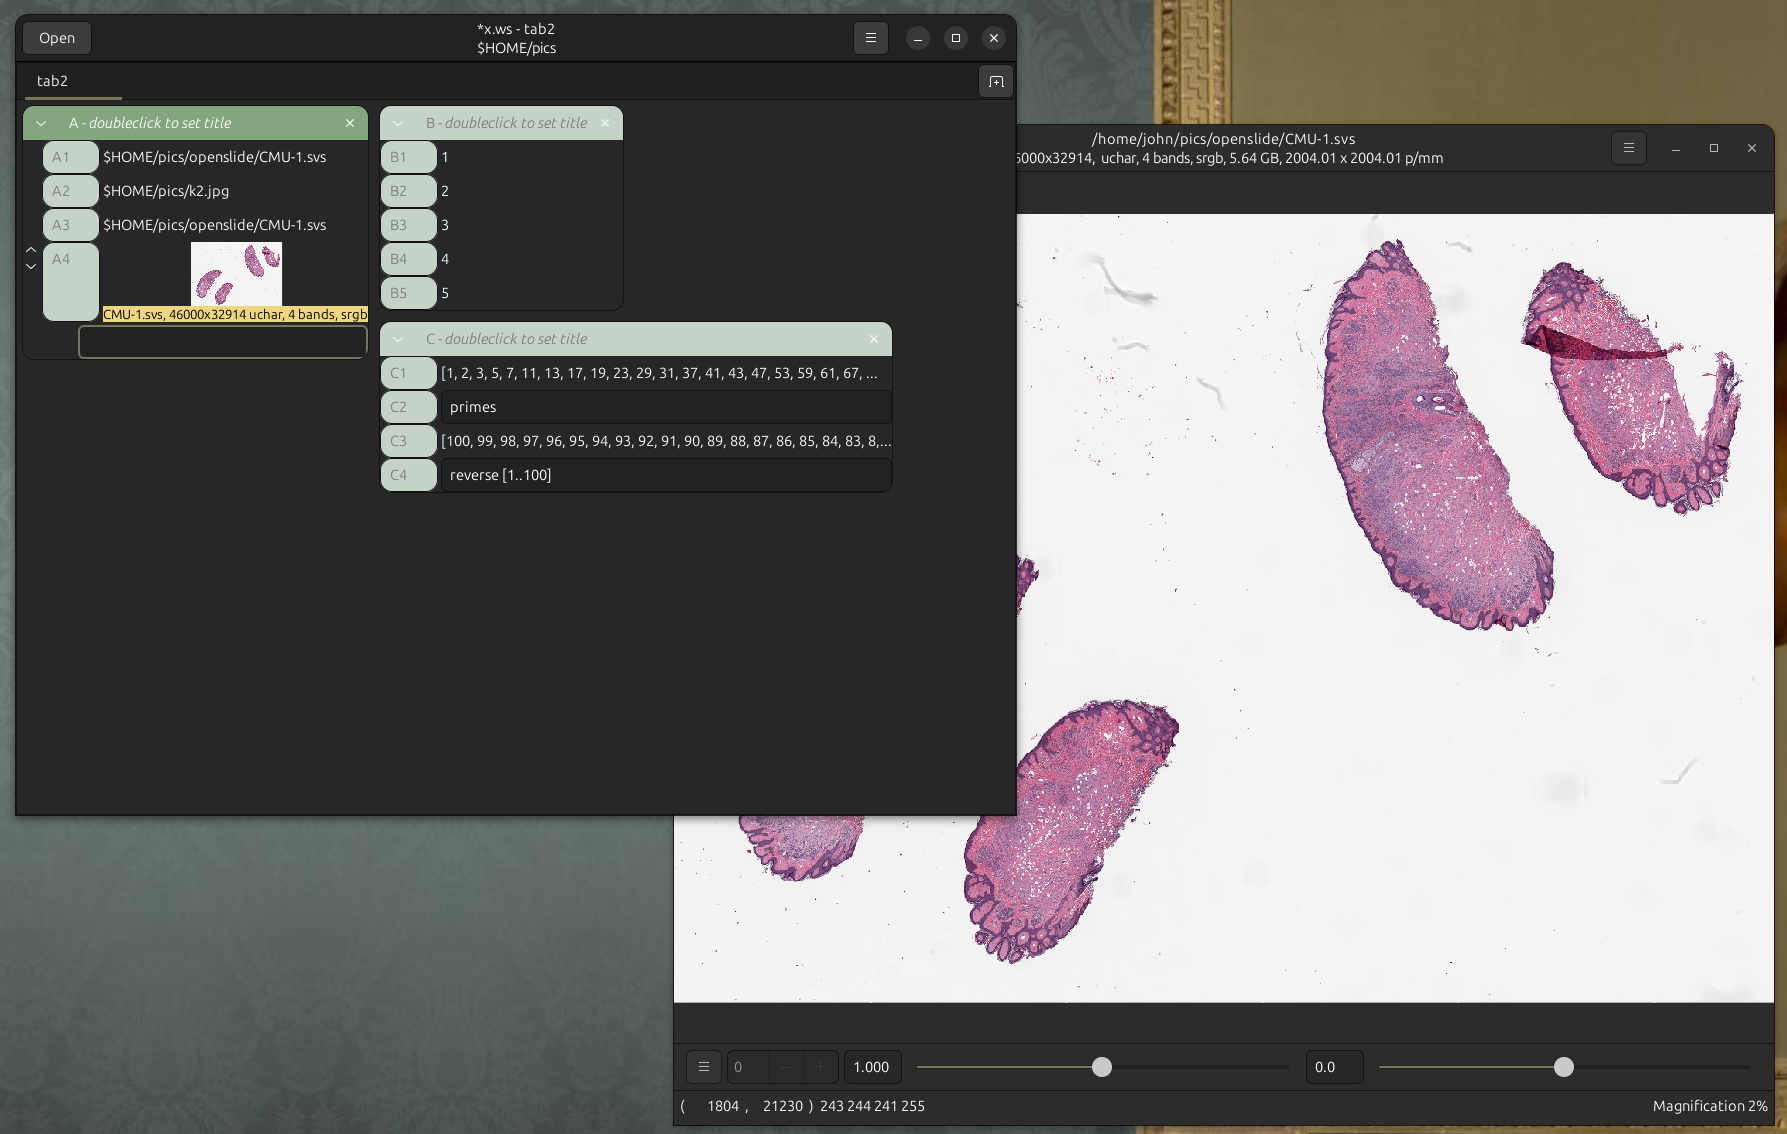
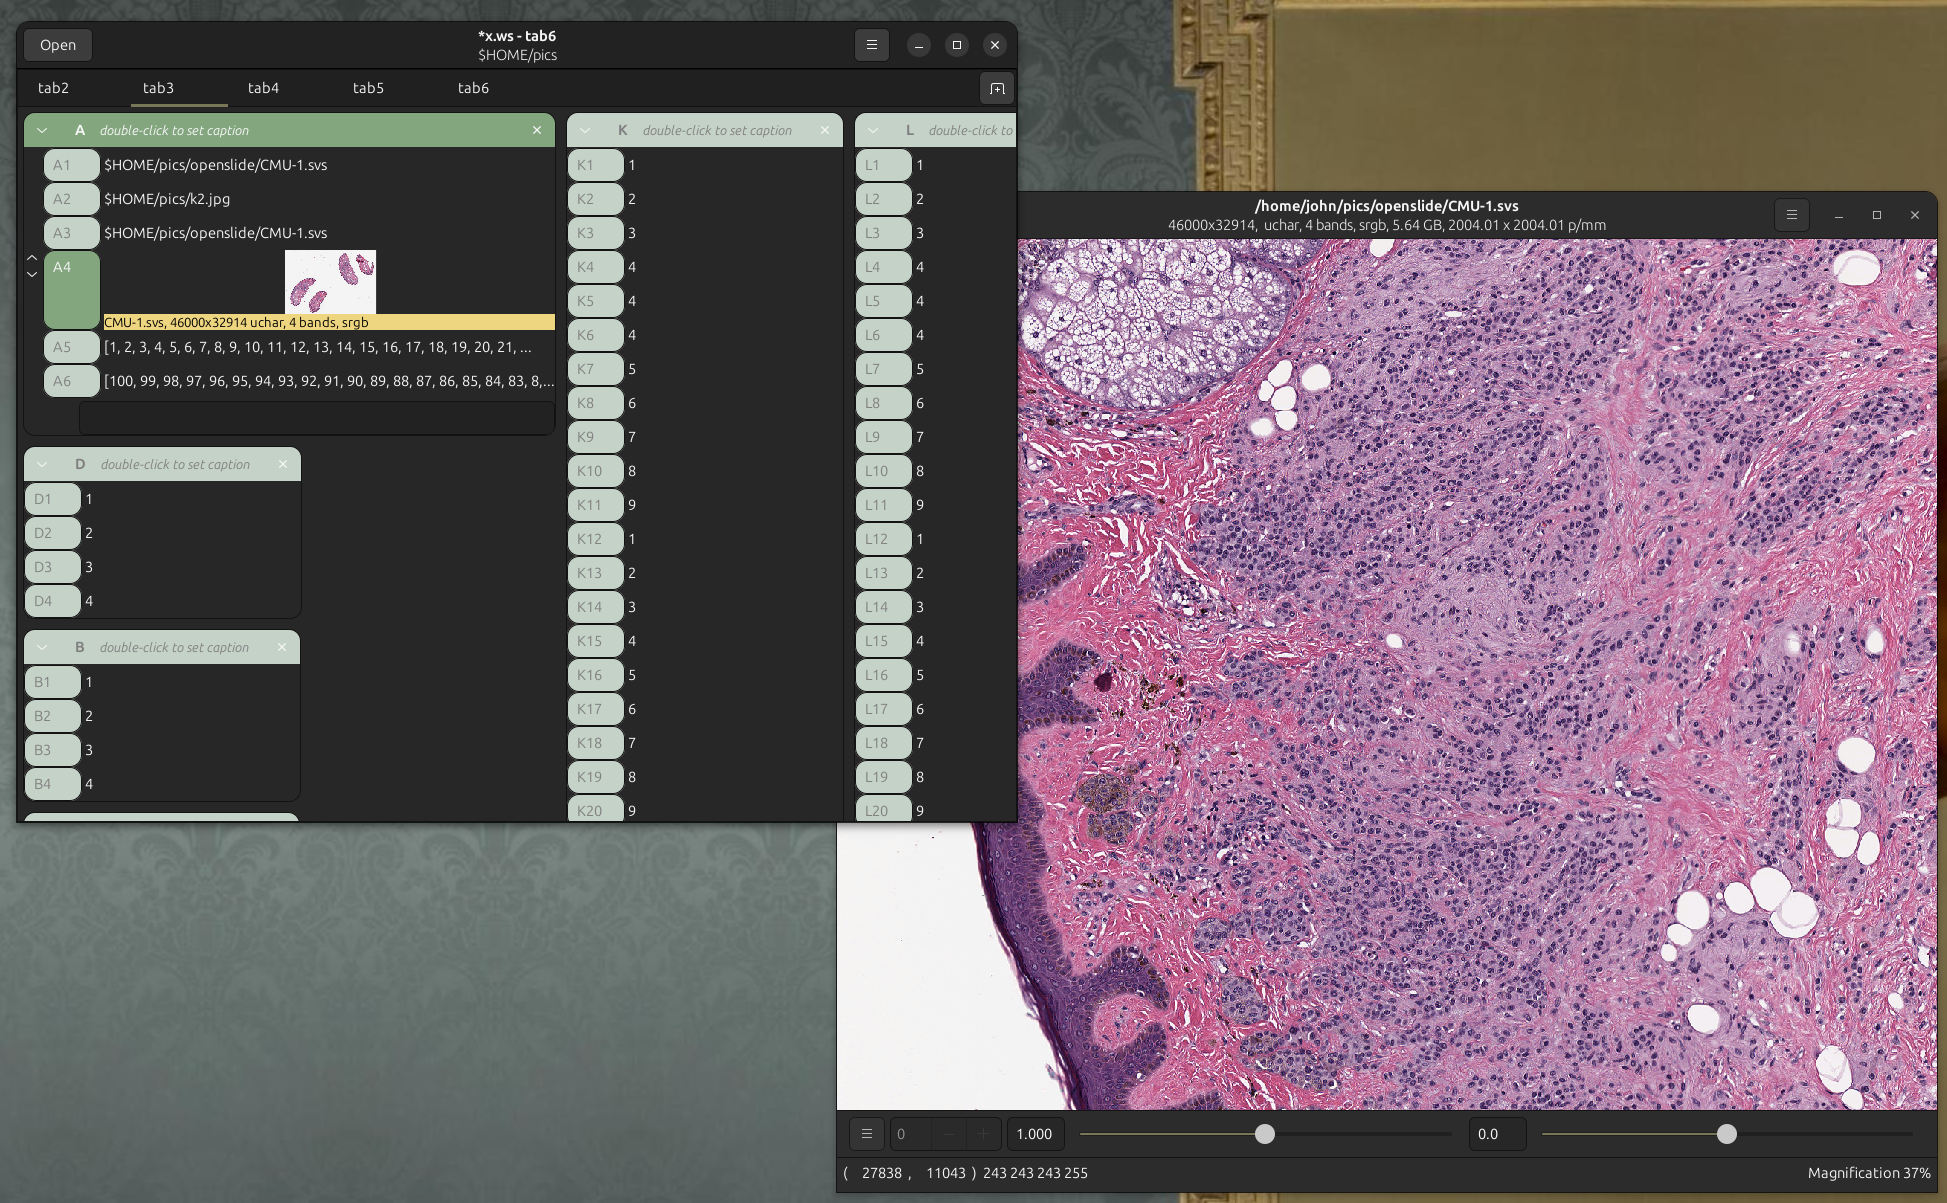
add workspace duplicate

diff --git a/src/workspaceview.c b/src/workspaceview.c
@@ -606,15 +606,15 @@ static void
 workspaceview_action(GSimpleAction *action, GVariant *parameter, View *view)
 {
 	Workspaceview *wview = WORKSPACEVIEW(view);
+	Workspace *ws = WORKSPACE(VOBJECT(wview)->iobject);
 	const char *name = g_action_get_name(G_ACTION(action));
 
 	printf("workspaceview_action: %s\n", name);
 
-	if (g_str_equal(name, "column-new")) {
-		Workspace *ws = WORKSPACE(VOBJECT(wview)->iobject);
-
+	if (g_str_equal(name, "column-new"))
 		workspace_column_new(ws);
-	}
+	else if (g_str_equal(name, "tab-duplicate"))
+		workspace_duplicate(ws);
 }
 
 static void

diff --git a/src/workspace.c b/src/workspace.c
@@ -53,7 +53,8 @@ workspace_set_needs_layout(Workspace *ws, gboolean needs_layout)
 		ws, IOBJECT(ws)->name, needs_layout);
 #endif /*DEBUG_VERBOSE*/
 
-	if (needs_layout != ws->needs_layout) {
+	if (!ws->in_dispose &&
+		needs_layout != ws->needs_layout) {
 		g_assert(!g_slist_find(workspace_needs_layout, ws) == needs_layout);
 
 		if (needs_layout)
@@ -1838,3 +1839,4 @@ workspace_duplicate(Workspace *ws)
 
 	return TRUE;
 }
+

diff --git a/src/mainwindow.c b/src/mainwindow.c
@@ -401,6 +401,9 @@ static GActionEntry mainwindow_entries[] = {
 	{ "close", mainwindow_close_action },
 	{ "fullscreen", action_toggle, NULL, "false", mainwindow_fullscreen },
 
+	// workspace tab menu
+	{ "tab-duplicate", mainwindow_view_action },
+
 	// workspaceview rightclick menu
 	{ "column-new", mainwindow_view_action },
 

diff --git a/src/workspaceviewlabel.c b/src/workspaceviewlabel.c
@@ -118,6 +118,8 @@ static void
 workspaceviewlabel_menu(GtkGestureClick *gesture,
 	guint n_press, double x, double y, Workspaceviewlabel *wviewlabel)
 {
+	mainwindow_set_action_view(VIEW(wviewlabel->wview));
+
 	gtk_popover_set_pointing_to(GTK_POPOVER(wviewlabel->right_click_menu),
 		&(const GdkRectangle){ x, y, 1, 1 });
 

diff --git a/src/model.c b/src/model.c
@@ -30,8 +30,8 @@
  */
 
 /*
- */
 #define DEBUG
+ */
 
 #include "nip4.h"
 
